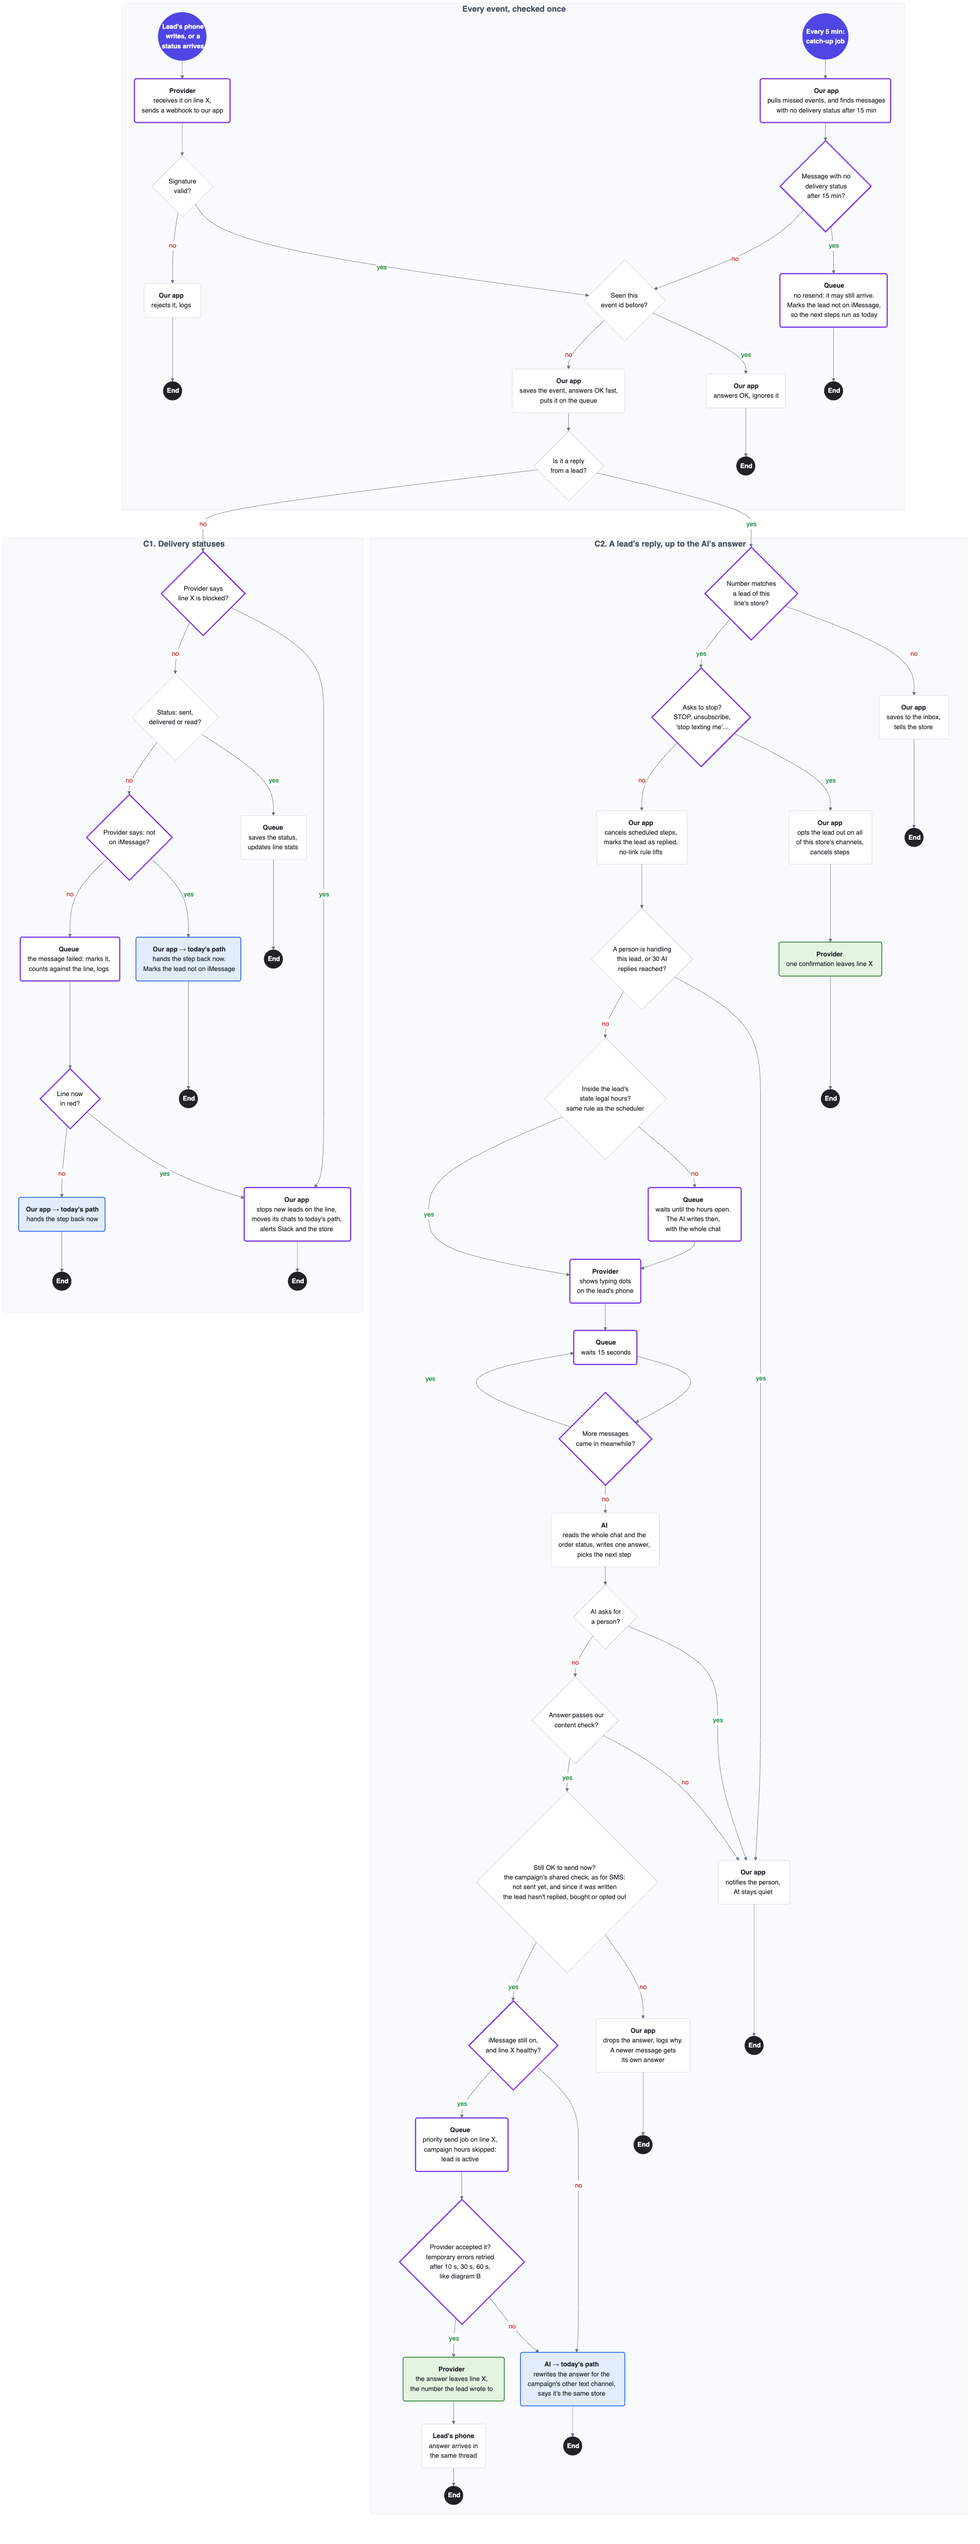
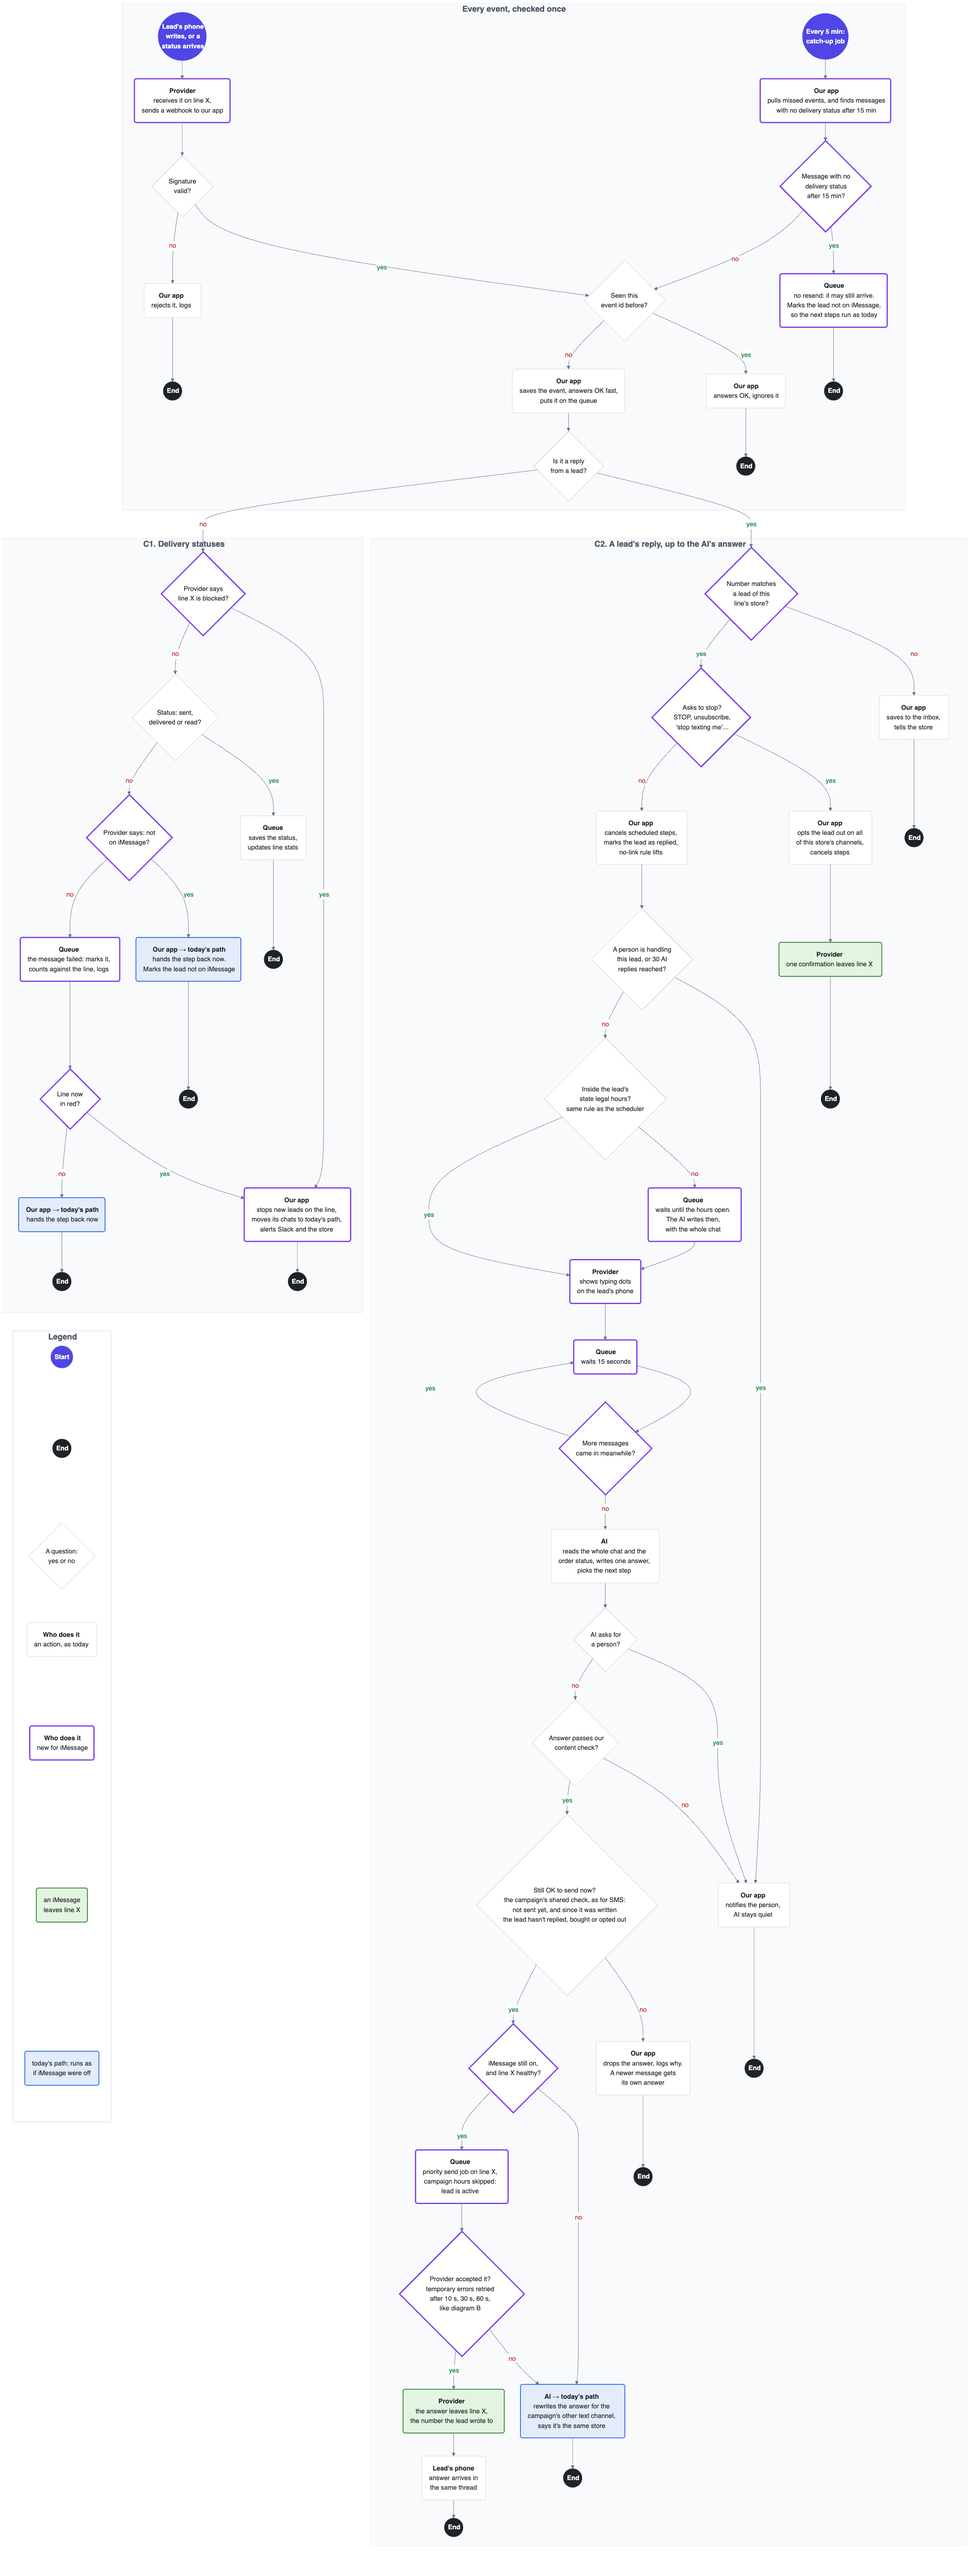
Diagrams: a legend inside each picture

diff --git a/diagrams.md b/diagrams.md
@@ -60,6 +60,13 @@ flowchart TD
     Q15 -- yes --> SMS4("<b>Our app → today's path</b><br/>hands the step back now,<br/>logs, alerts"):::sms --> E7(("<b>End</b>"))
     Q15 -- no --> R4("<b>Queue</b><br/>retries after 10 s, 30 s, 60 s:<br/>runs every check again, logs") --> Q0
 
+    subgraph LEGEND ["Legend"]
+        direction TB
+        LG1(("<b>Start</b>")):::start ~~~ LG2(("<b>End</b>")):::finish ~~~ LG3{"A question:<br/>yes or no"}:::decision ~~~ LG4("<b>Who does it</b><br/>an action, as today"):::action ~~~ LG5("<b>Who does it</b><br/>new for iMessage"):::new ~~~ LG6("an iMessage<br/>leaves line X"):::out ~~~ LG7("today's path: runs as<br/>if iMessage were off"):::sms
+    end
+    style LEGEND fill:#ffffff,stroke:#d0d4db,color:#4b5563
+    E0 ~~~ LG1
+
     classDef start fill:#4f46e5,stroke:#4f46e5,color:#ffffff
     classDef finish fill:#1f2328,stroke:#1f2328,color:#ffffff
     classDef action fill:#ffffff,stroke:#d0d4db,color:#1f2328
@@ -148,6 +155,13 @@ flowchart TD
     style IN fill:#f8fafc,stroke:#e5e7eb,color:#4b5563
     style C1 fill:#f8fafc,stroke:#e5e7eb,color:#4b5563
     style C2 fill:#f8fafc,stroke:#e5e7eb,color:#4b5563
+
+    subgraph LEGEND ["Legend"]
+        direction TB
+        LG1(("<b>Start</b>")):::start ~~~ LG2(("<b>End</b>")):::finish ~~~ LG3{"A question:<br/>yes or no"}:::decision ~~~ LG4("<b>Who does it</b><br/>an action, as today"):::action ~~~ LG5("<b>Who does it</b><br/>new for iMessage"):::new ~~~ LG6("an iMessage<br/>leaves line X"):::out ~~~ LG7("today's path: runs as<br/>if iMessage were off"):::sms
+    end
+    style LEGEND fill:#ffffff,stroke:#d0d4db,color:#4b5563
+    E6 ~~~ LG1
 
     classDef start fill:#4f46e5,stroke:#4f46e5,color:#ffffff
     classDef finish fill:#1f2328,stroke:#1f2328,color:#ffffff
